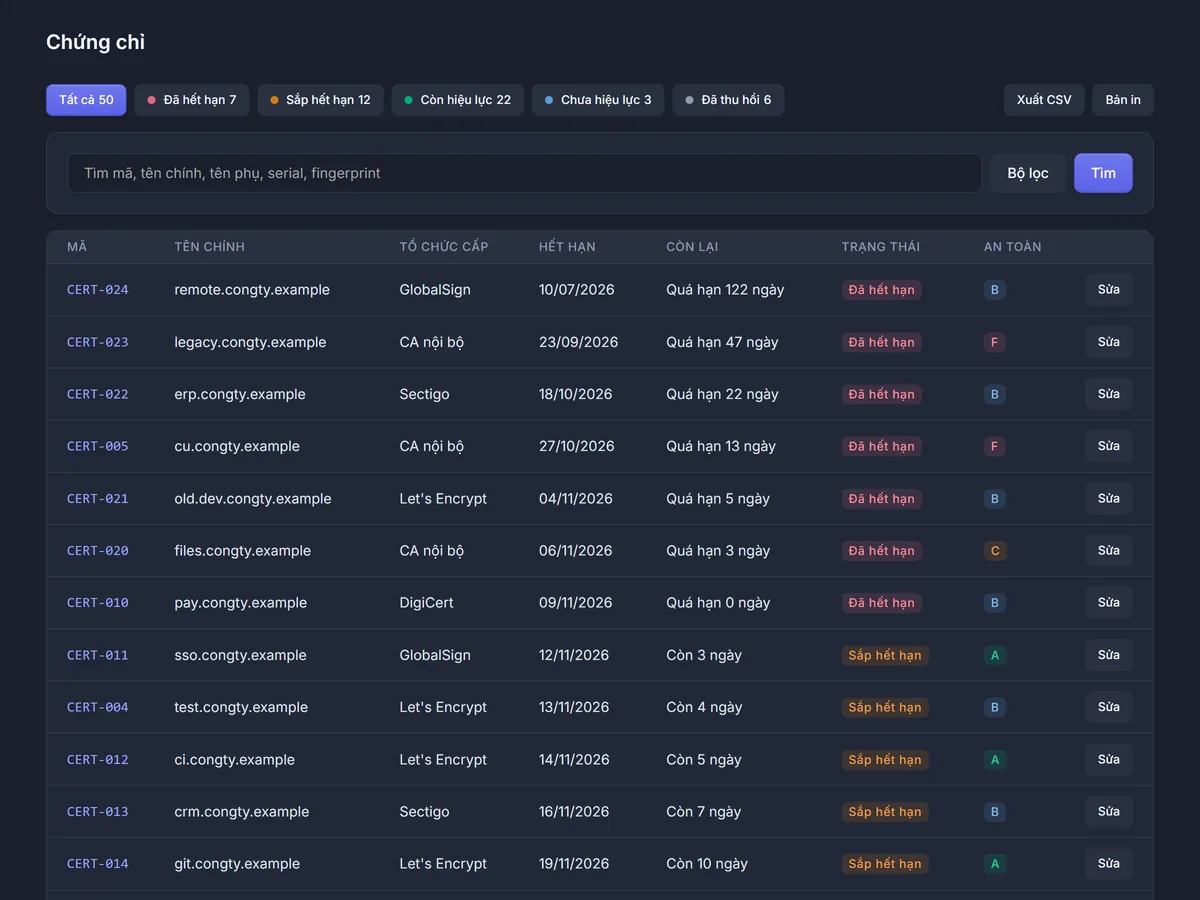
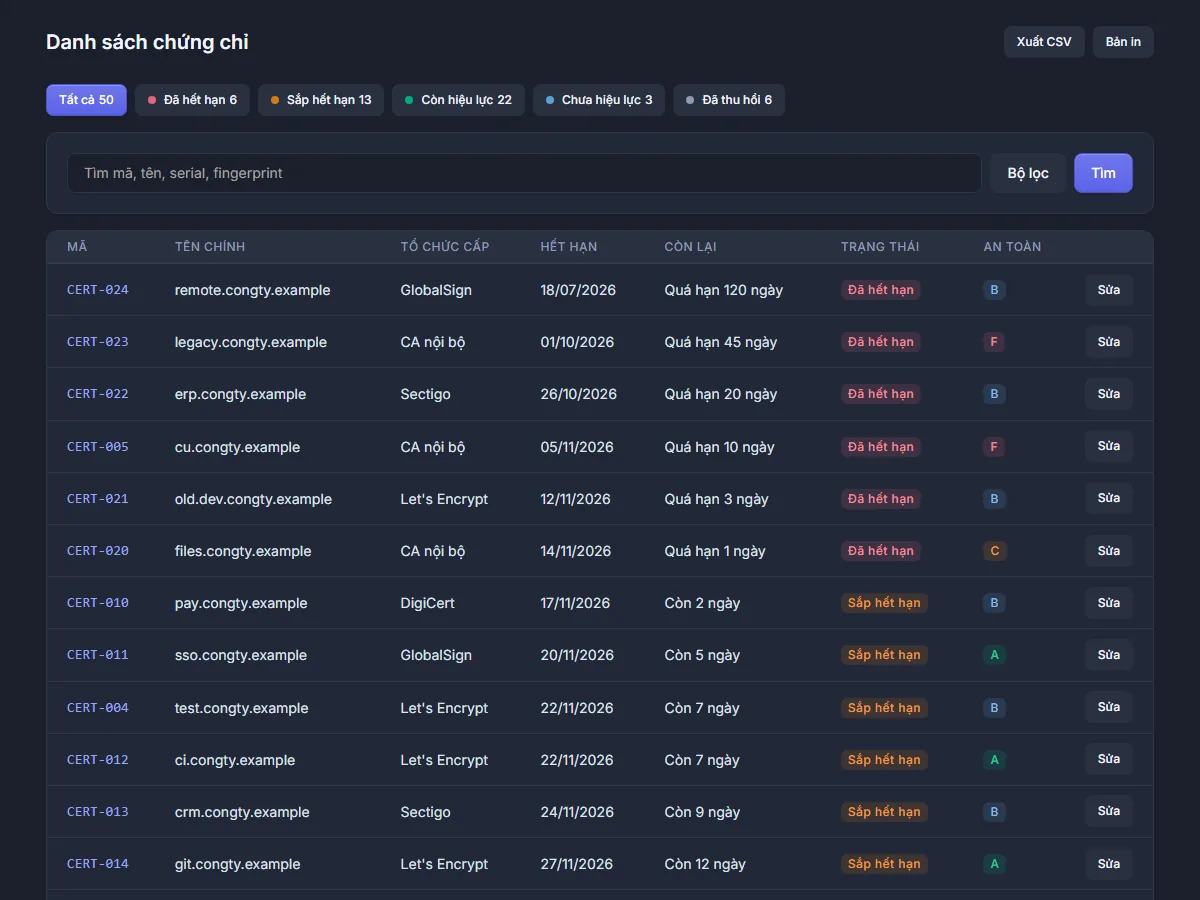
Rà giao diện lần cuối: sửa 10 chỗ ô lệch cỡ, bảng gãy dòng, tên trang lệch menu; chụp lại 9 ảnh landing; README menu 5 khu
VÌ SAO
User giao 15/11/2026 ("rà soát lỗi giao diện... báo tôi rồi làm", rồi "Đọc commit và làm tiếp"): rà ở 1440, 1024, 390px
tìm ra 10 chỗ (G1–G10 trong commit bàn giao 39a46aa). Commit này sửa code; ảnh báo cáo, gói nộp, VPS ở commit sau.

ĐÃ ĐỔI
- G1, G10 views/bo_loc.php (Danh sách, Thống kê): sáu ô lọc một hàng chỉ từ 1400px; hẹp hơn thì ba ô một hàng (768px
  trở lên), hai ô (576px), điện thoại: hai ô ngày một hàng, mỗi ô chọn một hàng. Trước đó chia sáu từ 992px nên ở
  1024–1366px ô ngày còn "dd/m", ô chọn còn "Tấ". Chữ gợi ý ô tìm rút còn "Tìm mã, tên, serial, fingerprint" (bản dài
  bị cắt ở 390px); ô vẫn tìm cả tên phụ như cũ.
- G2 app.css: luật bảng kéo ngang (chữ không xuống dòng, bảng tràn thì kéo) áp dưới 1200px thay cho 992px. Ở 1024px còn
  bảng phụ bên trái, phần nội dung chỉ khoảng 700px, tên chính và "Quá hạn 120 ngày" gãy ba dòng.
- G3 index.php: ô tên chính của bảng Cần xử lý ngay thêm text-nowrap; app.css ẩn <wbr> trong ô text-nowrap (Chrome vẫn
  ngắt ở <wbr> dù nowrap). Ở khoảng 1280px tên dài gãy hai dòng, tên ngắn một dòng, bảng lệch hàng.
- G4 nhat_ky.php: bộ lọc ba ô một hàng ở 992–1199px (trước chia năm, "Tất c", "dd/mm" bị cắt); điện thoại hai ô ngày
  một hàng.
- G5 chung_chi_form.php (cả hai tab): Thuật toán khoá + Độ dài khoá chung nửa trái ($o['khoa']), Thuật toán ký nửa
  phải; trước chia ba cột giữa các hàng hai cột nên mép ô so le.
[…]

diff --git a/public/assets/app.css b/public/assets/app.css
@@ -132,6 +132,12 @@
         padding-left: 1rem;
         padding-right: 1rem;
     }
+
+    /* Tiêu đề trang 18px thay cho 20px: "Danh sách chứng chỉ", "Thống kê và báo cáo" đứng cùng dòng với hai nút
+       Xuất CSV, Bản in mà không gãy hai dòng ở 390px (chụp 15/11/2026, sau khi đổi tên trang cho trùng menu). */
+    .qt-trang .page-title {
+        font-size: 1.125rem;
+    }
 }
 
 /* Luôn giữ chỗ thanh cuộn: trang dài có thanh cuộn, trang ngắn không, nên chuyển trang làm cả đầu trang
@@ -202,15 +208,17 @@
     border-radius: 12px;
 }
 
-/* Bảng kéo ngang (danh sách chứng chỉ): dưới 992px hiện đủ cột, chữ không xuống dòng; bảng rộng hơn màn hình thì
-   .table-responsive cho kéo ngang (user 09/11/2026: "khi tràn thông tin thì phải được quyền kéo sang trái để xem"). */
-@media (max-width: 991.98px) {
+/* Bảng kéo ngang (danh sách chứng chỉ): dưới 1200px hiện đủ cột, chữ không xuống dòng; bảng rộng hơn màn hình thì
+   .table-responsive cho kéo ngang (user 09/11/2026: "khi tràn thông tin thì phải được quyền kéo sang trái để xem").
+   Mốc 1200px chứ không phải 992px: ở 1024px còn bảng phụ bên trái, phần nội dung chỉ khoảng 700px, tên chính và
+   "Quá hạn 120 ngày" gãy ba dòng (rà 15/11/2026). */
+@media (max-width: 1199.98px) {
     .bang-keo-ngang td,
     .bang-keo-ngang th {
         white-space: nowrap;
     }
 
-    /* tenMienNgatDong() chèn <wbr> sau dấu chấm (cho Dashboard), và Chrome vẫn ngắt ở <wbr> dù đã nowrap: ẩn nó đi
+    /* tenMienNgatDong() chèn <wbr> sau dấu chấm, và Chrome vẫn ngắt ở <wbr> dù đã nowrap: ẩn nó đi
        thì mất chỗ ngắt, tên miền nằm một dòng (chụp 390px 09/11/2026). */
     .bang-keo-ngang wbr {
         display: none;
@@ -226,6 +234,11 @@
     .table-responsive td[colspan] {
         text-align: left !important;
     }
+}
+
+/* Ô đã đánh dấu text-nowrap (tên chính ở bảng Cần xử lý ngay của Dashboard) thì không ngắt ở <wbr> ở mọi cỡ màn hình. */
+.bang-keo-ngang td.text-nowrap wbr {
+    display: none;
 }
 
 /* Bảng rộng hơn khung: mép phía còn cột bị che mờ dần, để biết kéo ngang được (kiểm thử 12/11/2026: cột Còn lại và nút

diff --git a/tests/chay.php b/tests/chay.php
@@ -1678,9 +1678,9 @@ function test_chu_quan_trong_trong_quan_tri_la_chu_trang(PDO $pdo): void
     kiem(str_contains($css, '--tblr-body-color: var(--qt-chu-than)'), 'Chữ thân khu quản trị phải dùng --qt-chu-than (trắng ngà)');
 }
 
-// Luật: Mọi bảng của khu quản trị hiện đủ cột ở mọi cỡ màn hình; dưới 992px chữ không xuống dòng (trừ ô dài đánh dấu o-xuong-dong) và bảng tràn thì kéo ngang. Trang danh sách chứng chỉ không có nút Thêm riêng.
-// Vì sao: User 09/11/2026: "trên điện thoại bị cắt nhiều thông tin. Tôi muốn khi tràn thông tin thì phải được quyền kéo sang trái để xem", rồi "áp cùng" cho mọi bảng; nút Thêm chứng chỉ đã có trong bảng phụ.
-// Đỏ nghĩa là: Một cột lại ẩn theo cỡ màn hình (d-none ... -table-cell), một bảng card-table thiếu lớp bang-keo-ngang, hoặc chung_chi.php đặt lại $nutThem.
+// Luật: Mọi bảng của khu quản trị hiện đủ cột ở mọi cỡ màn hình; dưới 1200px chữ không xuống dòng (trừ ô dài đánh dấu o-xuong-dong) và bảng tràn thì kéo ngang; tên chính ở bảng Cần xử lý ngay của Dashboard không xuống dòng ở mọi cỡ. Trang danh sách chứng chỉ không có nút Thêm riêng.
+// Vì sao: User 09/11/2026: "trên điện thoại bị cắt nhiều thông tin. Tôi muốn khi tràn thông tin thì phải được quyền kéo sang trái để xem", rồi "áp cùng" cho mọi bảng; nút Thêm chứng chỉ đã có trong bảng phụ. Rà 15/11/2026: ở 1024px còn bảng phụ bên trái nên bảng Danh sách gãy tên chính ba dòng, mốc nâng từ 992px lên 1200px.
+// Đỏ nghĩa là: Một cột lại ẩn theo cỡ màn hình (d-none ... -table-cell), một bảng card-table thiếu lớp bang-keo-ngang, chung_chi.php đặt lại $nutThem, mốc không xuống dòng trong app.css tụt khỏi 1200px, hoặc ô tên chính của Dashboard mất text-nowrap.
 // Đừng: Ẩn cột hay dồn thông tin xuống dòng phụ chỉ hiện trên điện thoại cho "vừa màn hình"; người dùng muốn kéo để xem đủ.
 // Nhóm: Giao diện, triển khai (Giao diện)
 function test_moi_bang_quan_tri_keo_ngang_tren_dien_thoai(PDO $pdo): void
@@ -1696,7 +1696,9 @@ function test_moi_bang_quan_tri_keo_ngang_tren_dien_thoai(PDO $pdo): void
     }
     kiem(!str_contains(codeKhongChuThich(__DIR__ . '/../public/admin/chung_chi.php'), '$nutThem'), 'Trang danh sách không còn nút Thêm chứng chỉ riêng');
     $css = file_get_contents(__DIR__ . '/../public/assets/app.css');
-    kiem(preg_match('/\.bang-keo-ngang[^{]*\{[^}]*white-space: nowrap/', $css) === 1, 'Ô của bảng kéo ngang không được xuống dòng');
+    kiem(preg_match('/@media \(max-width: 1199\.98px\) \{\s*\.bang-keo-ngang td,\s*\.bang-keo-ngang th \{\s*white-space: nowrap/', $css) === 1, 'Dưới 1200px ô của bảng kéo ngang không được xuống dòng');
+    kiem(str_contains(file_get_contents(__DIR__ . '/../public/admin/index.php'), '<td class="text-nowrap"><?= tenMienNgatDong($dong[\'subject_cn\']) ?></td>'), 'Tên chính ở bảng Cần xử lý ngay phải là ô text-nowrap');
+    kiem(preg_match('/^\.bang-keo-ngang td\.text-nowrap wbr \{\s*display: none/m', $css) === 1, 'Ô text-nowrap của bảng kéo ngang phải ẩn <wbr> (Chrome vẫn ngắt ở <wbr> dù nowrap)');
 }
 
 // Luật: Web chỉ có giao diện tối: thẻ <html> luôn data-bs-theme="dark", không nạp tabler-theme.min.js, không còn nút hay mục đổi giao diện.

diff --git a/views/bo_loc.php b/views/bo_loc.php
@@ -40,7 +40,7 @@ $soLocTrongPhanGon = count(array_intersect_key($locDangDung, array_flip(['het_ha
         <div class="d-flex flex-wrap gap-2">
             <label class="visually-hidden" for="tu_khoa">Từ khoá</label>
             <input class="form-control flex-fill w-auto" id="tu_khoa" name="tu_khoa" value="<?= e($loc['tu_khoa']) ?>"
-                   maxlength="255" autocomplete="off" placeholder="Tìm mã, tên chính, tên phụ, serial, fingerprint">
+                   maxlength="255" autocomplete="off" placeholder="Tìm mã, tên, serial, fingerprint">
             <button type="button" class="btn" data-bs-toggle="collapse" data-bs-target="#bo-loc-them"
                     aria-controls="bo-loc-them" aria-expanded="<?= $soLocTrongPhanGon > 0 ? 'true' : 'false' ?>">
                 Bộ lọc<?= $soLocTrongPhanGon > 0 ? ' (' . $soLocTrongPhanGon . ')' : '' ?>
@@ -51,25 +51,27 @@ $soLocTrongPhanGon = count(array_intersect_key($locDangDung, array_flip(['het_ha
             <?php endif; ?>
         </div>
         <div class="collapse <?= $soLocTrongPhanGon > 0 ? 'show' : '' ?>" id="bo-loc-them">
+            <?php // Lưới ô lọc (rà 15/11/2026): sáu ô một hàng chỉ từ 1400px; hẹp hơn thì ba ô một hàng, vì chia sáu ở
+                  // 1024–1366px ô ngày chỉ còn "dd/m", ô chọn còn "Tấ". Điện thoại: hai ô ngày một hàng, mỗi ô chọn một hàng. ?>
             <div class="row mt-3">
-                <div class="col-6 col-lg">
+                <div class="col-6 col-md-4 col-xxl">
                     <?= oNhap('het_han_tu', 'Hết hạn từ ngày', $loc['het_han_tu'], [], 'type="date"') ?>
                 </div>
-                <div class="col-6 col-lg">
+                <div class="col-6 col-md-4 col-xxl">
                     <?= oNhap('het_han_den', 'Đến ngày', $loc['het_han_den'], [], 'type="date"') ?>
                 </div>
-                <div class="col-12 col-sm-4 col-lg">
+                <div class="col-12 col-sm-6 col-md-4 col-xxl">
                     <?= oChon('ca_id', 'Tổ chức cấp', $cacToChuc, $loc['ca_id'], [], '', false) ?>
                 </div>
-                <div class="col-6 col-sm-4 col-lg">
+                <div class="col-12 col-sm-6 col-md-4 col-xxl">
                     <?= oChon('domain_id', 'Tên miền', $cacTenMien, $loc['domain_id'], [], '', false) ?>
                 </div>
-                <div class="col-6 col-sm-4 col-lg">
+                <div class="col-12 col-sm-6 col-md-4 col-xxl">
                     <?= oChon('server_id', 'Máy chủ', $cacMayChu, $loc['server_id'], [], '', false) ?>
                 </div>
                 <?php if ($coChonSapXep): ?>
                     <?php // Rộng hơn các ô khác ở màn lớn: nhãn dài nhất ("Hết hạn gần nhất trước") bị cắt khi chia đều sáu ô. ?>
-                    <div class="col-12 col-sm-4 col-lg-3">
+                    <div class="col-12 col-sm-6 col-md-4 col-xxl-3">
                         <label class="form-label" for="xep">Sắp xếp theo</label>
                         <select class="form-select" id="xep" name="xep">
                             <?php foreach ($cacCachXep as $giaTri => $nhan): ?>

diff --git a/public/admin/chung_chi_form.php b/public/admin/chung_chi_form.php
@@ -203,6 +203,9 @@ $o = [
         . '<div class="invalid-feedback">' . e($loi['san'] ?? 'Tên phụ tối đa 5000 ký tự.') . '</div>'
         . '<small class="form-hint">Không bắt buộc. Các tên miền phụ mà chứng chỉ cũng bảo vệ.</small></div>',
 ];
+// Thuật toán khoá và Độ dài khoá chung nửa trái, Thuật toán ký nửa phải: mép ô thẳng với các hàng hai cột phía trên
+// (rà 15/11/2026: chia ba cột giữa các hàng hai cột thì mép ô so le).
+$o['khoa'] = '<div class="row"><div class="col-6">' . $o['thuat_toan'] . '</div><div class="col-6">' . $o['do_dai'] . '</div></div>';
 // Tab đọc: ô nào đã đọc được thì gom vào phần thu gọn; có lỗi ở một trong số đó, hoặc thuật toán khoá
 // không đọc ra được (Ed25519, GOST) thì mở sẵn để người dùng thấy ô cần điền.
 $moChiTiet = array_intersect_key($loi, array_flip(['subject_cn', 'valid_from', 'valid_to', 'key_algorithm', 'key_size',
@@ -327,9 +330,8 @@ require __DIR__ . '/../../views/tieu_de_trang.php';
                                     <div class="col-12"><?= $o['ten_chinh'] ?></div>
                                     <div class="col-md-6"><?= $o['bat_dau'] ?></div>
                                     <div class="col-md-6"><?= $o['het_han'] ?></div>
-                                    <div class="col-md-4"><?= $o['thuat_toan'] ?></div>
-                                    <div class="col-md-4"><?= $o['do_dai'] ?></div>
-                                    <div class="col-md-4"><?= $o['ky'] ?></div>
+                                    <div class="col-md-6"><?= $o['khoa'] ?></div>
+                                    <div class="col-md-6"><?= $o['ky'] ?></div>
                                     <div class="col-12"><?= $o['fingerprint'] ?></div>
                                     <div class="col-12"><?= $o['serial'] ?></div>
                                     <div class="col-12"><?= $o['san'] ?></div>
@@ -343,9 +345,8 @@ require __DIR__ . '/../../views/tieu_de_trang.php';
                                 <div class="col-md-6"><?= $o['to_chuc'] ?></div>
                                 <div class="col-md-6"><?= $o['bat_dau'] ?></div>
                                 <div class="col-md-6"><?= $o['het_han'] ?></div>
-                                <div class="col-md-4"><?= $o['thuat_toan'] ?></div>
-                                <div class="col-md-4"><?= $o['do_dai'] ?></div>
-                                <div class="col-md-4"><?= $o['ky'] ?></div>
+                                <div class="col-md-6"><?= $o['khoa'] ?></div>
+                                <div class="col-md-6"><?= $o['ky'] ?></div>
                                 <div class="col-12"><?= $o['fingerprint'] ?></div>
                                 <div class="col-12"><?= $o['serial'] ?></div>
                                 <div class="col-12"><?= $o['san'] ?></div>

diff --git a/public/admin/may_chu_form.php b/public/admin/may_chu_form.php
@@ -50,14 +50,25 @@ require __DIR__ . '/../../views/tieu_de_trang.php';
                         <?= oNhap('hostname', 'Tên máy chủ', $giaTri['hostname'], $loi,
                             'required maxlength="255" pattern="[A-Za-z0-9._\-]+" autocomplete="off"',
                             'Gồm chữ không dấu, số, dấu chấm, gạch dưới, gạch ngang.') ?>
-                        <?= oNhap('ip_address', 'Địa chỉ IP', $giaTri['ip_address'], $loi,
-                            'required maxlength="45" pattern="[0-9A-Fa-f:.]+" autocomplete="off"',
-                            'Địa chỉ IP không hợp lệ.', 'IPv4 hoặc IPv6, ví dụ 192.0.2.10') ?>
-                        <?= oNhap('port', 'Cổng', (string) $giaTri['port'], $loi,
-                            'required type="number" min="1" max="65535"', 'Cổng phải là số từ 1 đến 65535.') ?>
-                        <?= oChon('environment', 'Môi trường', MOI_TRUONG, $giaTri['environment'], $loi, 'Hãy chọn môi trường.') ?>
-                        <?= oNhap('owner', 'Người phụ trách', $giaTri['owner'], $loi,
-                            'required maxlength="100" autocomplete="off"', 'Người phụ trách là bắt buộc.') ?>
+                        <?php // IP và Cổng chung một hàng (8/4): cổng tối đa 5 chữ số, để rộng bằng ô tên thì lệch cỡ (rà 15/11/2026). ?>
+                        <div class="row">
+                            <div class="col-sm-8">
+                                <?= oNhap('ip_address', 'Địa chỉ IP', $giaTri['ip_address'], $loi,
+                                    'required maxlength="45" pattern="[0-9A-Fa-f:.]+" autocomplete="off"',
+                                    'Địa chỉ IP không hợp lệ.', 'IPv4 hoặc IPv6, ví dụ 192.0.2.10') ?>
+                            </div>
+                            <div class="col-sm-4">
+                                <?= oNhap('port', 'Cổng', (string) $giaTri['port'], $loi,
+                                    'required type="number" min="1" max="65535"', 'Cổng phải là số từ 1 đến 65535.') ?>
+                            </div>
+                            <div class="col-sm-6">
+                                <?= oChon('environment', 'Môi trường', MOI_TRUONG, $giaTri['environment'], $loi, 'Hãy chọn môi trường.') ?>
+                            </div>
+                            <div class="col-sm-6">
+                                <?= oNhap('owner', 'Người phụ trách', $giaTri['owner'], $loi,
+                                    'required maxlength="100" autocomplete="off"', 'Người phụ trách là bắt buộc.') ?>
+                            </div>
+                        </div>
                     </div>
                     <div class="card-footer text-end">
                         <a class="btn" href="<?= e(url('admin/may_chu.php')) ?>">Huỷ</a>

diff --git a/public/admin/nhat_ky.php b/public/admin/nhat_ky.php
@@ -31,24 +31,25 @@ require __DIR__ . '/../../views/tieu_de_trang.php';
     <div class="container-xl">
         <form class="card mb-3 d-print-none" method="get" action="<?= e(url('admin/nhat_ky.php')) ?>">
             <div class="card-body pb-0">
+                <?php // Ba ô một hàng tới dưới 1200px (rà 15/11/2026: chia năm ô ở 1024px thì "Tất c", "dd/mm" bị cắt). ?>
                 <div class="row">
-                    <div class="col-sm-6 col-lg-3"><?= oChon('nguoi', 'Người làm', $cacNguoi, $loc['nguoi'], [], '', false) ?></div>
+                    <div class="col-sm-6 col-lg-4 col-xl-3"><?= oChon('nguoi', 'Người làm', $cacNguoi, $loc['nguoi'], [], '', false) ?></div>
                     <?php // Mức độ (MUC_DO, user chốt 14/11/2026): lọc nhanh các dòng Cảnh báo, Nguy hiểm. ?>
-                    <div class="col-sm-6 col-lg-2"><?= oChon('muc', 'Mức độ', $cacMuc, $loc['muc'], [], '', false) ?></div>
-                    <div class="col-sm-6 col-lg-3"><?= oChon('hanh_dong', 'Hành động', $cacHanhDong, $loc['hanh_dong'], [], '', false) ?></div>
-                    <div class="col-sm-6 col-lg-2">
+                    <div class="col-sm-6 col-lg-4 col-xl-2"><?= oChon('muc', 'Mức độ', $cacMuc, $loc['muc'], [], '', false) ?></div>
+                    <div class="col-sm-6 col-lg-4 col-xl-3"><?= oChon('hanh_dong', 'Hành động', $cacHanhDong, $loc['hanh_dong'], [], '', false) ?></div>
+                    <div class="col-6 col-lg-4 col-xl-2">
                         <div class="mb-3">
                             <label class="form-label" for="tu_ngay">Từ ngày</label>
                             <input class="form-control" type="date" id="tu_ngay" name="tu_ngay" value="<?= e($loc['tu_ngay']) ?>">
                         </div>
                     </div>
-                    <div class="col-sm-6 col-lg-2">
+                    <div class="col-6 col-lg-4 col-xl-2">
                         <div class="mb-3">
                             <label class="form-label" for="den_ngay">Đến ngày</label>
                             <input class="form-control" type="date" id="den_ngay" name="den_ngay" value="<?= e($loc['den_ngay']) ?>">
                         </div>
                     </div>
-                    <div class="col-sm-6 col-lg-2 d-flex align-items-end gap-2 mb-3">
+                    <div class="col-sm-6 col-lg-4 col-xl-2 d-flex align-items-end gap-2 mb-3">
                         <button class="btn btn-primary flex-fill" type="submit">Lọc</button>
                         <a class="btn flex-fill" href="<?= e(url('admin/nhat_ky.php')) ?>">Bỏ lọc</a>
                     </div>

diff --git a/temp/cong_cu_bao_cao/chup_het.py b/temp/cong_cu_bao_cao/chup_het.py
@@ -1,5 +1,7 @@
 """Chụp toàn bộ ảnh giao diện cho báo cáo. Chạy: python -I chup_het.py [nhom ...]
-Nhóm: cong_khai, xem, nhan_vien, nhap_lieu, doc, nhat_ky. Không ghi nhóm thì chạy hết theo thứ tự."""
+Nhóm: cong_khai, xem, nhan_vien, nhap_lieu, doc, nhat_ky. Không ghi nhóm thì chạy hết theo thứ tự.
+Nhóm landing (chỉ chạy khi gọi tên): chụp lại 9 ảnh public/assets/landing/*.webp; chạy TRƯỚC nhóm nhap_lieu, vì nhóm
+đó gia hạn CERT-013 là chứng chỉ của hai ảnh thẻ Chi tiết và Gia hạn."""
 import sys
 from pathlib import Path
 
@@ -92,6 +94,32 @@ def nhat_ky():
         Phien().post("/login.php", {"username": "nhanvien", "password": "doan-mo"})
     chup("nhat_ky", "/admin/nhat_ky.php", ad, h=1000)
     chup("nhat_ky_nguy_hiem", "/admin/nhat_ky.php?muc=nguy_hiem", ad, h=620)
+
+
+def landing():
+    """9 ảnh của trang giới thiệu, cùng kích thước $anhGiaoDien trong public/index.php: 'may' 1600x1000 (cửa sổ 1440x900,
+    có menu), 'dt' 780x1688 (390x844, hệ số 2), 'the' 1200x900 (chỉ phần nội dung, ẩn menu)."""
+    from PIL import Image
+    from chup import ANH
+    dich = Path(r"d:\Desktop\cipher\public\assets\landing")
+    ad = Phien("admin")
+    viec = [
+        ("dashboard-may", "/admin/index.php", dict(w=1440, h=900, ti_le=2), (1600, 1000)),
+        ("can-xu-ly", "/admin/chung_chi.php?trang_thai=expiring", dict(w=1440, h=900, ti_le=2), (1600, 1000)),
+        ("dashboard-dt", "/admin/index.php", dict(h=844, dt=True), (780, 1688)),
+        ("the-danh-sach", "/admin/chung_chi.php", dict(w=1200, h=900, ti_le=1, an_menu=True), (1200, 900)),
+        ("the-canh-bao", "/admin/canh_bao.php", dict(w=1200, h=900, ti_le=1, an_menu=True), (1200, 900)),
+        ("the-thong-ke", "/admin/thong_ke.php", dict(w=1200, h=900, ti_le=1, an_menu=True), (1200, 900)),
+        ("the-them", "/admin/chung_chi_form.php", dict(w=1200, h=900, ti_le=1, an_menu=True), (1200, 900)),
+        ("the-chi-tiet", "/admin/chung_chi_xem.php?id=13", dict(w=1200, h=900, ti_le=1, an_menu=True), (1200, 900)),
+        ("the-gia-han", "/admin/chung_chi_gia_han.php?id=13", dict(w=1200, h=900, ti_le=1, an_menu=True), (1200, 900)),
+    ]
+    for ten, duong, tham_so, co in viec:
+        anh = Image.open(chup("ld_" + ten, duong, ad, **tham_so)).convert("RGB")
+        if anh.size != co:
+            anh = anh.resize(co, Image.LANCZOS)
+        anh.save(dich / f"{ten}.webp", "WEBP", quality=82, method=6)
+        print("   ->", ten + ".webp", co, (dich / f"{ten}.webp").stat().st_size // 1024, "KB")
 
 
 for ten in NHOM:

diff --git a/temp/cong_cu_bao_cao/router.php b/temp/cong_cu_bao_cao/router.php
@@ -1,6 +1,8 @@
 <?php
 // Router cho "php -S" khi chụp ảnh báo cáo. Chrome chạy ngầm không gửi được cookie, nên mã phiên đi qua ?__sid=.
 // /__khung?u=<địa chỉ>&w=390&h=800: nhúng trang vào iframe hẹp để chụp khổ điện thoại (Chrome ngầm không hẹp dưới ~500px).
+// Thêm &an=1: ẩn hai tầng menu của trang trong iframe (ảnh thẻ trên landing chỉ lấy phần nội dung). Đặt qua thuộc tính
+// style của phần tử chứ không chèn thẻ <style>, vì CSP của trang cấm style chèn thêm.
 $duong = parse_url($_SERVER['REQUEST_URI'], PHP_URL_PATH);
 if ($duong === '/__khung') {
     $u = $_GET['u'] ?? '/';
@@ -8,7 +10,13 @@ if ($duong === '/__khung') {
     $h = (int) ($_GET['h'] ?? 800);
     header('Content-Type: text/html; charset=utf-8');
     echo '<!doctype html><html><body style="margin:0;background:#0b0e14"><iframe src="' . htmlspecialchars($u)
-        . '" style="border:0;display:block;width:' . $w . 'px;height:' . $h . 'px"></iframe></body></html>';
+        . '" style="border:0;display:block;width:' . $w . 'px;height:' . $h . 'px"></iframe>';
+    if (isset($_GET['an'])) {
+        echo '<script>document.querySelector("iframe").addEventListener("load", function () {'
+            . 'this.contentDocument.querySelectorAll(".qt-thanh, .qt-phu").forEach(function (e) { e.style.display = "none"; });'
+            . '});</script>';
+    }
+    echo '</body></html>';
     return true;
 }
 if (isset($_GET['__sid'])) {

diff --git a/public/admin/nguoi_dung_form.php b/public/admin/nguoi_dung_form.php
@@ -95,9 +95,8 @@ require __DIR__ . '/../../views/dau_trang.php';
                             <?php endif; ?>
                         </div>
                         <div class="mb-3">
-                            <label class="form-label <?= $id === null ? 'required' : '' ?>" for="password">
-                                <?= $id === null ? 'Mật khẩu' : 'Đặt lại mật khẩu' ?>
-                            </label>
+                            <?php // Nhãn viết liền một dòng: xuống dòng trong thẻ label để lại một dấu cách trước dấu sao bắt buộc. ?>
+                            <label class="form-label <?= $id === null ? 'required' : '' ?>" for="password"><?= $id === null ? 'Mật khẩu' : 'Đặt lại mật khẩu' ?></label>
                             <input class="form-control <?= isset($loi['password']) ? 'is-invalid' : '' ?>" id="password" name="password"
                                    type="password" minlength="8" pattern="<?= e(MAU_MAT_KHAU) ?>" autocomplete="new-password" <?= $id === null ? 'required' : '' ?>>
                             <div class="invalid-feedback"><?= e($loi['password'] ?? LUAT_MAT_KHAU) ?></div>

diff --git a/temp/cong_cu_bao_cao/chup.py b/temp/cong_cu_bao_cao/chup.py
@@ -60,11 +60,15 @@ def them_sid(duong, sid):
     return duong + ("&" if "?" in duong else "?") + "__sid=" + sid
 
 
-def chup(ten, duong, phien=None, w=1280, h=800, dt=False, ti_le=1.5, cho=3000):
-    """Chụp GOC+duong thành anh/<ten>.png. dt=True: khổ điện thoại 390px qua /__khung."""
+def chup(ten, duong, phien=None, w=1280, h=800, dt=False, ti_le=1.5, cho=3000, an_menu=False):
+    """Chụp GOC+duong thành anh/<ten>.png. dt=True: khổ điện thoại 390px qua /__khung.
+    an_menu=True: chụp qua /__khung đúng cỡ w x h với hai tầng menu bị ẩn (ảnh thẻ của landing)."""
     sid = phien.sid if phien else ""
     dich = them_sid(duong, sid)
-    if dt:
+    if an_menu:
+        url = GOC + "/__khung?" + urllib.parse.urlencode({"u": dich, "w": w, "h": h, "an": 1})
+        cua_so = f"{w},{h}"
+    elif dt:
         w_khung, h_khung = 390, h
         url = GOC + "/__khung?" + urllib.parse.urlencode({"u": dich, "w": w_khung, "h": h_khung})
         w, ti_le = 390, 2

diff --git a/public/admin/index.php b/public/admin/index.php
@@ -74,7 +74,8 @@ require __DIR__ . '/../../views/tieu_de_trang.php';
                                         <td class="ma-so text-nowrap">
                                             <a href="<?= e(url('admin/chung_chi_xem.php?id=' . (int) $dong['id'])) ?>"><?= e($dong['cert_code']) ?></a>
                                         </td>
-                                        <td><?= tenMienNgatDong($dong['subject_cn']) ?></td>
+                                        <?php // Không xuống dòng: ở khoảng 1280px cột này hẹp, tên dài gãy hai dòng còn tên ngắn một dòng (rà 15/11/2026). ?>
+                                        <td class="text-nowrap"><?= tenMienNgatDong($dong['subject_cn']) ?></td>
                                         <td class="text-nowrap"><?= e(moTaSoNgay($dong)) ?></td>
                                         <td><?= e(date('d/m/Y', strtotime($dong['valid_to']))) ?></td>
                                         <td>

diff --git a/public/index.php b/public/index.php
@@ -157,7 +157,7 @@ $anhGiaoDien = function (string $tep, string $moTa, string $loai = 'may', bool $
                     </div>
                 </li>
                 <li class="ld-buoc ld-the-tinh">
-                    <?= $anhGiaoDien('the-chi-tiet', 'Chi tiết chứng chỉ còn 7 ngày, kèm đánh giá an toàn và lịch sử gia hạn', 'the') ?>
+                    <?= $anhGiaoDien('the-chi-tiet', 'Chi tiết chứng chỉ còn 9 ngày, kèm đánh giá an toàn và lịch sử gia hạn', 'the') ?>
                     <div class="ld-the-tinh-chu">
                         <h3 class="ld-the-tinh-ten"><span class="ld-so-buoc">2</span>Theo dõi tự động</h3>
                         <p class="text-secondary mb-0">Hệ thống tính số ngày còn lại và báo khi chứng chỉ chạm mốc cảnh báo.</p>
